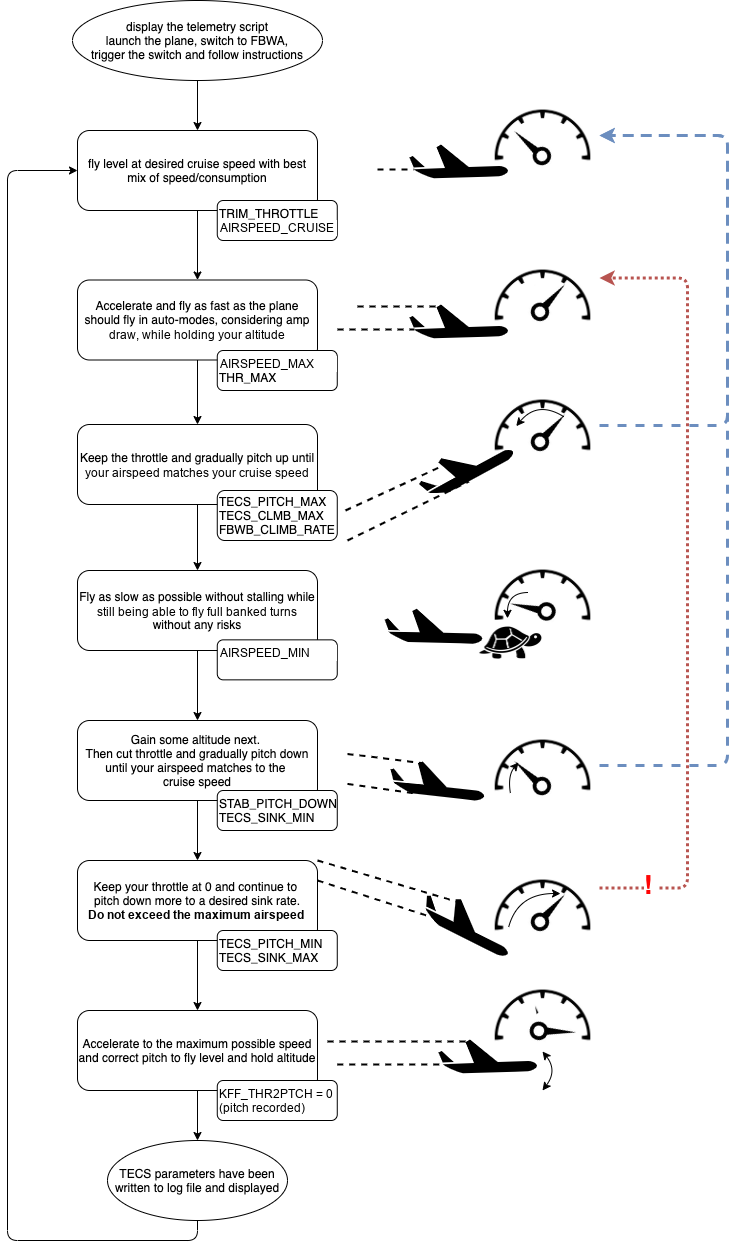
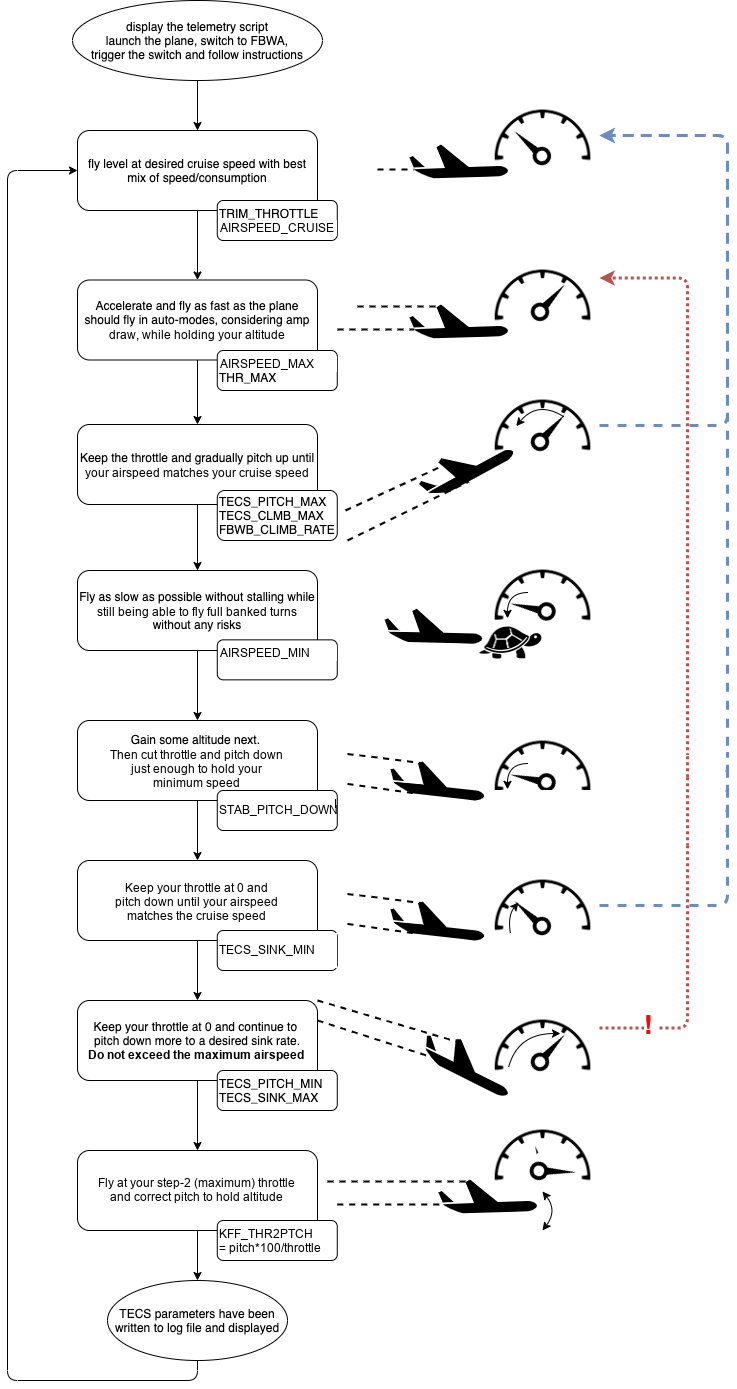
fix: split step 5 (SINK_MIN at cruise speed); KFF_THR2PTCH via Stavros' formula
ArduPlane's TECS_SINK_MIN is the sink rate at THR_MIN and
AIRSPEED_CRUISE, and AP_TECS uses it as the bottom of its throttle
model next to TECS_CLMB_MAX, which step 3 measures at cruise speed.
The old step 5 measured it while gliding at AIRSPEED_MIN together with
STAB_PITCH_DOWN. Split it: step 5 captures STAB_PITCH_DOWN only (just
enough nose-down to hold minimum speed), new step 6 keeps the throttle
cut and pitches down to cruise speed for TECS_SINK_MIN. No new audio:
step 6 reuses tecs50.wav with the cruise speed. 8 steps now.

Step 8 computes KFF_THR2PTCH = pitch * 100 / throttle (Stavros'
ArduPilot setup checklist), which matches Attitude.cpp's
KFF x throttle%/100: exact at the step-8 throttle. Clamped to the
documented +/-5, 0 without a recorded throttle; the log shows the pitch
it gives at that throttle and at TRIM_THROTTLE. Step 8 text now says to
fly at the step-2 throttle (THR_MAX).

Verified by running the X9 function script (Lua 5.2) and the Ethos
widget (Lua 5.4, via debug upvalues) through a scripted 8-step run,
plus clamp and zero-throttle cases; the EdgeTX widgets' step and log
code is identical to the X9 script's. Not yet run on a radio.

README: steps table, KFF section. Diagram: new step-6 row, step 5 shows
the slow-speed gauge, the cruise-speed connector moves to step 6.

Claude-Session: https://claude.ai/code/session_01W9Gb6KjkKW4JPad9QQnTtQ

diff --git a/README.md b/README.md
@@ -188,9 +188,8 @@ parentheses.
   hold the requested condition with the stick), and the pitch the helper reads
   only has `PTCH_TRIM_DEG` removed, not `KFF_THR2PTCH`. It only changes how much
   stick you need (e.g. `+0.7` lifts the nose about 0.35° at 50 % throttle).
-  The log writes `KFF_THR2PTCH=0`: skip that line when applying if you want to
-  keep your value, or set it to 0 before the run so the plane already flies the
-  way it will after tuning.
+  The log writes a new `KFF_THR2PTCH` from step 8: skip that line when applying
+  if you want to keep your own value.
 
 > Several of these (the pitch limits especially) change how the airframe flies.
 > Note your original values first so you can restore them once tuning is done.
@@ -207,6 +206,24 @@ parentheses.
 	* 	follow the instructions to get _and_ hold the plane in the requested attitude and/or speed [**give the telemetry here 1 or 2 second to update**]
 	*  engage the switch again to save the values
 	*  repeat
+*  The steps, in order (all in FBWA):
+
+	| Step | Fly | Captured |
+	|---|---|---|
+	| 1 | level at your desired cruise speed | `TRIM_THROTTLE`, `AIRSPEED_CRUISE` |
+	| 2 | level at your desired maximum speed | `THR_MAX`, `AIRSPEED_MAX` (× 0.95) |
+	| 3 | same throttle, pitch up until airspeed is back at cruise speed | `TECS_PITCH_MAX`, `TECS_CLMB_MAX`, `FBWB_CLIMB_RATE` |
+	| 4 | as slow as is safe, including banked turns | `AIRSPEED_MIN` |
+	| 5 | throttle cut, pitch down just enough to hold minimum speed | `STAB_PITCH_DOWN` |
+	| 6 | throttle still cut, pitch down until airspeed reaches cruise speed | `TECS_SINK_MIN` |
+	| 7 | throttle still cut, pitch down until airspeed reaches maximum speed | `TECS_PITCH_MIN`, `TECS_SINK_MAX` |
+	| 8 | at your step-2 throttle (`THR_MAX`), hold altitude | `KFF_THR2PTCH` |
+
+	Steps 5 and 6 are separate because ArduPlane defines `TECS_SINK_MIN` as the
+	sink rate at zero throttle **and cruise airspeed** (TECS pairs it with
+	`TECS_CLMB_MAX`, which is measured at cruise speed in step 3), while
+	`STAB_PITCH_DOWN` is the smallest nose-down that keeps a throttle-cut glide
+	from stalling.
 *  Once finished your TECS screen should be filled with numbers
 *  a logfile is written to your radio's SD card:
 	*  **EdgeTX** (TX16S etc.): `/LOGS/tecs_<timestamp>.txt`
@@ -253,40 +270,52 @@ modified-time to find the newest file.
 2. **Merge the log in Mission Planner (recommended).** In *Config → Full Parameter List* use **Load from file** (or **Compare Params**) and point it at `tecs_<timestamp>.txt`. Review the diff it shows, then **Write Params**. Fastest and least error-prone for the full set. *(The file's `NAME=value` layout matches the param format; if your MP version is strict about it, paste the values into the matching rows manually.)*
 3. **Copy from the screen.** No computer? Read the values straight off the TECS telemetry screen and enter them in your ground station over a telemetry/Bluetooth link.
 
-The parameters this tool sets (13 total, 12 of them measured):
+The parameters this tool sets (13 total):
 
 | Group | Parameters |
 |---|---|
 | Throttle / speed | `TRIM_THROTTLE`, `THR_MAX`, `AIRSPEED_CRUISE`, `AIRSPEED_MIN`, `AIRSPEED_MAX` |
 | Climb | `TECS_PITCH_MAX`, `TECS_CLMB_MAX`, `FBWB_CLIMB_RATE` |
 | Sink / descent | `TECS_PITCH_MIN`, `TECS_SINK_MIN`, `TECS_SINK_MAX`, `STAB_PITCH_DOWN` |
-| Feed-forward | `KFF_THR2PTCH` (always 0; step 7 only records the full-speed pitch, see below) |
+| Feed-forward | `KFF_THR2PTCH` (step 8, see below) |
 
-#### `KFF_THR2PTCH` is left at 0
+#### How `KFF_THR2PTCH` is calculated
 
-Earlier versions calculated it in step 7 ("fly full speed and hold altitude")
-as `pitch - sqrt((TRIM_THROTTLE - throttle) / (TRIM_THROTTLE - 100))`. That
-formula does not match how ArduPlane uses the parameter, so the helper now
-writes `KFF_THR2PTCH=0`. Step 7 is still flown, but only **records** the
-full-speed pitch and throttle: they appear in the log as
-`# full speed (step 7): pitch -1.2 deg at 100% throttle ...` (and next to the
-`KFF_THR2PTCH` value on the Ethos and TX16S mk3 screens).
+Step 8 uses the formula from Stavros'
+[ArduPilot setup checklist](https://notes.stavros.io/ardupilot/ardupilot-setup-checklist/#in-the-field):
+
+```
+KFF_THR2PTCH = pitch * 100 / throttle
+```
+
+where `pitch` is the pitch you hold to fly level in step 8 (negative = nose
+down) and `throttle` is the step-8 throttle in %. The log explains the result:
+
+```
+KFF_THR2PTCH=-1.37
+# KFF_THR2PTCH = pitch*100/throttle (Stavros): step 8 pitch -1.0 deg at 73% throttle
+#   gives -1.0 deg at 73% and -0.6 deg at 43% cruise (TRIM_THROTTLE)
+```
 
 * ArduPlane adds `KFF_THR2PTCH x throttle% / 100` degrees to the pitch target,
-  counted from **zero** throttle (the same code from 3.x through 4.7). Any
-  non-zero value therefore also moves the nose at cruise throttle, not only at
-  full throttle.
-* The old formula subtracts a 0-1 fraction from a pitch in degrees. At full stick
-  (100 %, which is what `THR_PASS_STAB = 1` gives in FBWA) it always returned
-  `pitch - 1`, i.e. 1 deg more nose-down than measured, and it returned NaN if
-  step 7 was captured below `TRIM_THROTTLE`.
-* Because the value counts from zero throttle, one `KFF_THR2PTCH` cannot make
-  the plane level at both cruise and full throttle without also changing
-  `PTCH_TRIM_DEG`, and a single switch-press reading is too noisy for that.
-* 0 is ArduPlane's default and safe: FBWA is level at cruise; at full throttle
-  the nose sits a little high and the plane climbs gently. Correct it with the
-  stick, or tune `KFF_THR2PTCH` by hand in small steps, using the recorded
-  full-speed pitch as a guide, and re-check level flight at cruise afterwards.
+  counted from **zero** throttle (the same code from 3.x through 4.7). The
+  formula is therefore exact at the step-8 throttle, and it also tilts the nose
+  at cruise throttle by `KFF_THR2PTCH x TRIM_THROTTLE / 100` (the second log
+  line). A single value can't be exact at both.
+* Fly step 8 at the throttle you actually use as "full" (your step-2 `THR_MAX`),
+  not necessarily 100 %: outside the tuning run the flight controller never
+  goes above `THR_MAX`.
+* The value is clamped to ArduPlane's documented range of ±5 (the log says so
+  when that happens), and left at 0 if no step-8 throttle was recorded.
+* `KFF_THR2PTCH = 0` (ArduPlane's default) is also safe: FBWA is level at
+  cruise, and at full throttle the nose sits a little high and the plane climbs
+  gently. Skip the `KFF_THR2PTCH` line when applying if you prefer that, or if
+  you already tuned it by hand.
+
+Earlier versions used `pitch - sqrt((TRIM_THROTTLE - throttle) / (TRIM_THROTTLE - 100))`.
+That doesn't match how ArduPlane uses the parameter: at full stick it always
+returned `pitch - 1` (1° more nose-down than measured), and it returned NaN if
+the step was captured below `TRIM_THROTTLE`.
 
 #### 4. Review, write, and verify
 
